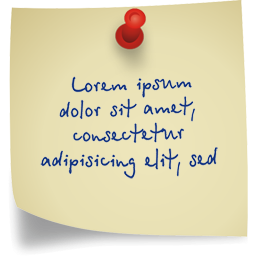
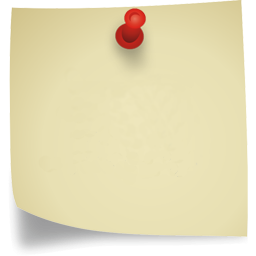
add popup background image, still has bug on div float offset

Changed region(s): [[0.2188, 0.2812, 0.8438, 0.6875], [0.1562, 0.5938, 0.5312, 0.7188], [0.5312, 0.3125, 0.75, 0.375]]

diff --git a/MyTest/WebContent/js/myMap.js b/MyTest/WebContent/js/myMap.js
@@ -148,12 +148,12 @@ MapManager.prototype.genMap = function(mapMeta, hotspotMeta) {
 				value : "pointDefault"
 			}),
 			symbolizer : {
-				pointRadius : 10,
+				pointRadius : 20,
 				strokeWidth : 2,
 				srokeColor : '#9C9C9C',
-				externalGraphic : web_context + '/img/marker-gold.png',
-				graphicXOffset : -10,
-				graphicYOffset : -20
+				externalGraphic : web_context + '/img/material/a17.png',
+				graphicXOffset : -2,
+				graphicYOffset : -38
 			}
 		}), new Rule({
 			filter : new Filter.Comparison({
@@ -184,12 +184,12 @@ MapManager.prototype.genMap = function(mapMeta, hotspotMeta) {
 				value : "pointDefault"
 			}),
 			symbolizer : {
-				pointRadius : 13,
+				pointRadius : 24,
 				strokeWidth : 2,
 				srokeColor : '#9C9C9C',
-				externalGraphic : web_context + '/img/marker-gold.png',
-				graphicXOffset : -10,
-				graphicYOffset : -20
+				externalGraphic : web_context + '/img/material/a17.png',
+				graphicXOffset : -2,
+				graphicYOffset : -45
 			}
 		}), new Rule({
 			filter : new Filter.Comparison({
@@ -207,7 +207,7 @@ MapManager.prototype.genMap = function(mapMeta, hotspotMeta) {
 		}) ]
 	});
 
-	var vectorLayer = new OpenLayers.Layer.Vector('pointVector-Map03', {
+	var vectorLayer = new OpenLayers.Layer.Vector(mapMeta.mapName, {
 		styleMap : new OpenLayers.StyleMap({
 			"default" : defaultStyle,
 			"select" : selectStyle
@@ -245,12 +245,15 @@ MapManager.prototype.genMap = function(mapMeta, hotspotMeta) {
 		'featureselected' : function(evt) {
 			var feature = evt.feature;
 			var popup = new MyMarker("myPopup", OpenLayers.LonLat
-					.fromString(feature.geometry.toShortString()), null,
+					.fromString(feature.geometry.toShortString()), new OpenLayers.Size(287, 150.5),
 					"<div style='font-size:.8em;'>Feature: " + feature.id
-							+ "<img src=\"" + web_context + "/img/icon_app.png"
-							+ "\">" + "<br>Summary: " + "新规划" + "</div>", null,
-					false, null, "map-shadow.png");
-			popup.minSize = new OpenLayers.Size(100, 50);
+							+ "<img src='" + web_context
+							+ "/img/thumbnail01.jpg'" + " width='" + 80
+							+ "' height='" + 80 + "' >" + "<br>Summary: "
+							+ "新规划" + "</div>", null, false, null, web_context
+							+ "/img/material/note.png");
+			popup.minSize = new OpenLayers.Size(459.8, 240.8);
+			//popup.maxSize = new OpenLayers.Size(574, 301);
 			popup.autoSize = true;
 			feature.popup = popup;
 			this.map.addPopup(popup);

diff --git a/MyTest/WebContent/js/myMarker.js b/MyTest/WebContent/js/myMarker.js
@@ -1,14 +1,16 @@
 MyMarker = OpenLayers.Class(OpenLayers.Popup.FramedCloud, {
-
+	
 	initialize : function(id, lonlat, contentSize, contentHTML, anchor,
 			closeBox, closeBoxCallback, imageUrl) {
-		this.imageSrc = OpenLayers.Util.getImageLocation(imageUrl);
+		this.imageSrc = imageUrl;
 		OpenLayers.Popup.Framed.prototype.initialize.apply(this, arguments);
 		this.contentDiv.className = this.contentDisplayClass;
 	},
 
 	CLASS_NAME : "MyMarker"
 });
+
+MyMarker.prototype.imageSize = new OpenLayers.Size(574, 301);
 
 MyMarker.prototype.createBlocks = function() {
 	this.blocks = [];
@@ -41,3 +43,7 @@ MyMarker.prototype.updateBlocks = function() {
         this.contentDiv.style.top = this.padding.top + "px";
 	}
 };
+
+/*MyMarker.prototype.updateSize = function(){
+	this.setSize(this.contentSize); 
+};*/

diff --git a/MyTest/WebContent/css/myMap.css b/MyTest/WebContent/css/myMap.css
@@ -1,8 +1,8 @@
 @CHARSET "UTF-8";
 
 div.olPopup {
-	opacity: 0.8;
-	/** background-image: url("../img/map-shadow.png");
+	/**opacity: 0.8;
+	 background-image: url("../img/map-shadow.png");
 	background-repeat: no-repeat;**/
 }
 
